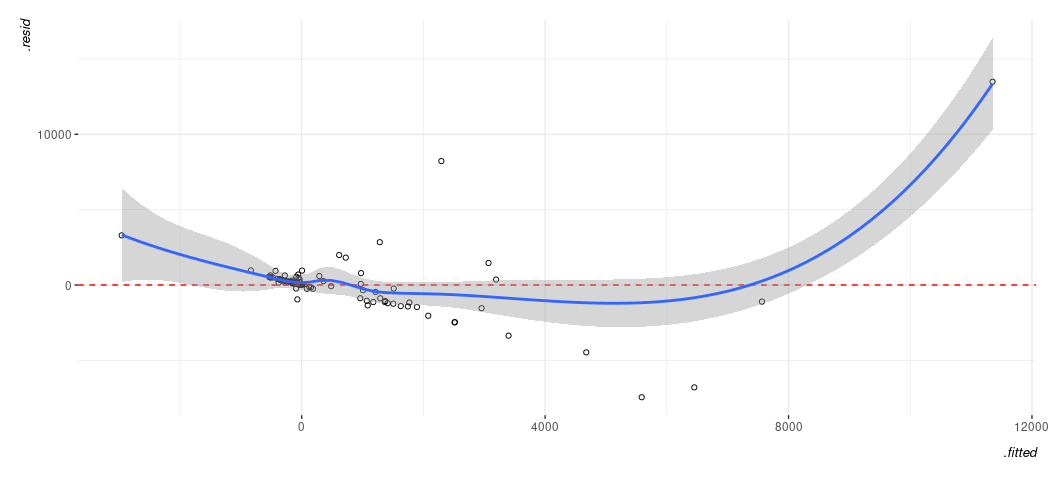
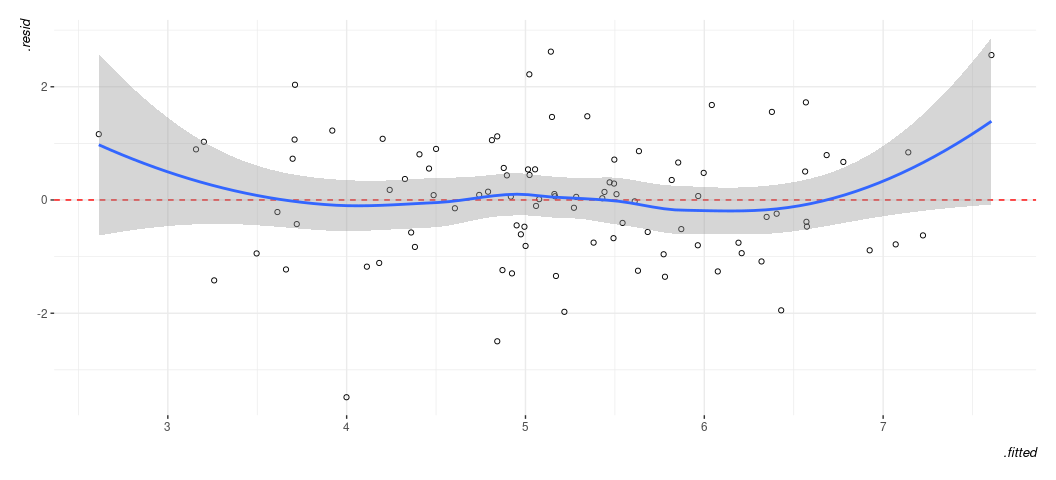
update

diff --git a/scripts/lab4.md b/scripts/lab4.md
@@ -317,11 +317,9 @@ I encourage students to think of the `LINE` mnemonic for evaluating OLS.
 - `I`: the observations are independent from each other (which is more
   of something you have to know about your data in advance, which we
   won’t belabor here).
-
-``` r
-#  - `N`: the residuals are normally distributed
-#  - `E`: the distribution of residuals is *e*qual across the range of the model.
-```
+- `N`: the residuals are normally distributed
+- `E`: the distribution of residuals is *e*qual across the range of the
+  model.
 
 Most of your assessment here can be visual. One of the most useful
 diagnostics is the fitted-residual plot. For each observation, take the
@@ -373,19 +371,29 @@ Data %>%
 #> `geom_smooth()` using formula = 'y ~ x'
 ```
 
-![](../images/lab-4/unnamed-chunk-11-1.png)<!-- -->
+![](../images/lab-4/unnamed-chunk-10-1.png)<!-- -->
+
+Wooooof, that should not look like that. What you want to see is
+basically featureless, patternless buckshot. Something like this:
 
 ``` r
-
 tibble(x = rnorm(95),
        y = 5 + x + rnorm(95)) -> A
 
 M4 <- lm(y ~ x, A)
+
+broom::augment(M4) %>%
+  ggplot(.,aes(.fitted, .resid)) +
+  geom_point(pch = 21) +
+  theme_steve(style='generic') +
+  geom_hline(yintercept = 0, linetype="dashed", color="red") +
+  geom_smooth(method = "loess")
+#> `geom_smooth()` using formula = 'y ~ x'
 ```
 
-Wooooof, that should not look like that. What you want to see is
-basically featureless, patternless buckshot. What you’re looking at is a
-cry for help.
+![](../images/lab-4/unnamed-chunk-11-1.png)<!-- -->
+
+What you’re looking at is a cry for help.
 
 One limitation of the fitted-residual plot, however, is that it won’t
 tell you where exactly the issue might be. That’s why I wrote the
@@ -401,25 +409,6 @@ linloess_plot(M2, pch=21) +
   theme_steve(style='generic')
 #> `geom_smooth()` using formula = 'y ~ x'
 #> `geom_smooth()` using formula = 'y ~ x'
-#> Warning in simpleLoess(y, x, w, span, degree = degree, parametric = parametric,
-#> : at -0.005
-#> Warning in simpleLoess(y, x, w, span, degree = degree, parametric = parametric,
-#> : radius 2.5e-05
-#> Warning in simpleLoess(y, x, w, span, degree = degree, parametric = parametric,
-#> : all data on boundary of neighborhood. make span bigger
-#> Warning in simpleLoess(y, x, w, span, degree = degree, parametric = parametric,
-#> : pseudoinverse used at -0.005
-#> Warning in simpleLoess(y, x, w, span, degree = degree, parametric = parametric,
-#> : neighborhood radius 0.005
-#> Warning in simpleLoess(y, x, w, span, degree = degree, parametric = parametric,
-#> : reciprocal condition number 1
-#> Warning in simpleLoess(y, x, w, span, degree = degree, parametric = parametric,
-#> : There are other near singularities as well. 1.01
-#> Warning in simpleLoess(y, x, w, span, degree = degree, parametric = parametric,
-#> : zero-width neighborhood. make span bigger
-#> Warning: Computation failed in `stat_smooth()`
-#> Caused by error in `predLoess()`:
-#> ! NA/NaN/Inf in foreign function call (arg 5)
 ```
 
 ![](../images/lab-4/unnamed-chunk-12-1.png)<!-- -->
@@ -549,11 +538,6 @@ Data %>%
                 linetype="dashed", size=1.1) +
   geom_density(size = 1.1) +
   theme_steve(style='generic')
-#> Warning: Using `size` aesthetic for lines was deprecated in ggplot2 3.4.0.
-#> ℹ Please use `linewidth` instead.
-#> This warning is displayed once every 8 hours.
-#> Call `lifecycle::last_lifecycle_warnings()` to see where this warning was
-#> generated.
 ```
 
 ![](../images/lab-4/unnamed-chunk-16-1.png)<!-- -->
@@ -585,52 +569,3 @@ Data %>%
 to be driven by so few observations. It’s possible you may want to
 condense the scale here, even if you have to be mindful about the
 negative values of a log transformation.
-
-``` r
-# Data %>%
-#   mutate(ln_fdi = log(abs(fdi + 1)),
-#          ln_fdi = ifelse(fdi < 0, ln_fdi*-1, ln_fdi),
-#          ln_growth = log(abs(econ_growth + 1)),
-#          ln_growth = ifelse(econ_growth < 0, ln_growth*-1, ln_growth),
-#          ln_size = log(econ_size),
-#          ln_devel = log(econ_devel),
-#          ln_xr = log(xr + 1)) -> Data
-# 
-# M3 <- lm(ln_fdi ~ pcj + ln_devel + ln_size + ln_growth +
-#            kaopen + ln_xr +  lf+ lifeexp,
-#          data = Data)
-# 
-# summary(M3)
-# 
-# library(modelsummary)
-# 
-# modelsummary(list(M2, M3), 
-#              stars = TRUE,
-#              coef_map = c(
-#                "pcj" = "Post-Conflict Justice",
-#                "econ_devel" = "Economic Development",
-#                "ln_devel" = "Economic Development",
-#                "econ_size" = "Economic Size",
-#                "ln_size" = "Economic Size",
-#                "econ_growth" = "Economic Growth",
-#                "ln_growth" = "Economic Growth",
-#                "kaopen" = "Capital Openness",
-#                "xr" = "Exchange Rate",
-#                "ln_xr" = "Exchange Rate",
-#                "lf" = "Labor Force",
-#                "lifeexp" = "Life Expectancy"
-#              ),
-#              gof_map = c("nobs", "adj.r.squared", "bic"))
-# 
-# 
-# a <- sd(residuals(M3))
-# 
-# broom::augment(M3) %>%
-#   ggplot(.,aes(.resid)) +
-#   geom_density(size = 1.1) +
-#   stat_function(fun = dnorm, color="blue",
-#                 args = list(mean = 0, 
-#                             sd = a),
-#                 linetype="dashed", size=1.1) +
-#   theme_steve(style='generic')
-```
